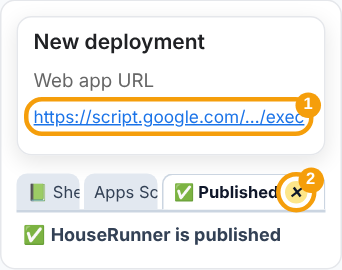
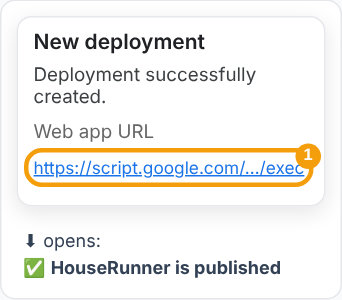
2026.11.292: instant hand-back, close-the-Sheet message, Privacy notice step
Claude-Session: https://claude.ai/code/session_01R2kV4GW3UVFR51NzUKtdLQ

Changed region(s): [[0.0292, 0.0889, 0.9649, 0.9481]]

diff --git a/setup/guide/setup.js b/setup/guide/setup.js
@@ -678,6 +678,8 @@
     var NEW = [
         { id: 'start', title: 'Make your Google Sheet', render: function () {
             if (connected()) return OLD.sheet.render();
+            if (window.hrConnecting) return '<h1>⏳ Connecting to your new Sheet…</h1><p class="lead">Your Sheet says it’s published – this page is connecting to it now. Google can take up to a minute after publishing; it keeps trying by itself.</p>' +
+                '<div class="status">⏳ Connecting…</div>';
             if (window.hrCopiedNow) return '<h1>⏳ Over to your new Sheet</h1>' +       // straight after Make my copy: one clear thing to do
                 '<p class="lead">Your copy opened in a new tab. <b>Follow the 9 steps on its Start HERE tab</b> – they look like this (click to enlarge):</p>' +
                 '<div class="card big" id="floatCard" style="margin:0 0 16px"><h3>📌 Keep the steps in view</h3><p>' + (window.HRFloat && HRFloat.floats ? 'A small window with the steps, one at a time, that <b>stays on top</b> while you work in the Sheet and Apps Script tabs.' : 'A small window with the steps, one at a time, to keep beside the Sheet while you work.') + '</p>' +
@@ -716,11 +718,12 @@
         }, ready: function () { return connected(); },
            blocked: 'Not connected yet – finish the steps in your Sheet (🏠 HouseRunner → ▶ HouseRunner – SETUP). This page carries on by itself.' },
         OLD.publish,
-        { id: 'welcome', title: 'Welcome', render: function () {
+        { id: 'welcome', title: 'Privacy notice', render: function () {
             if (connected() && !S.mode) return OLD.welcome.render();      // run again on a family that's set up: change it, or clear and start again?
             return (S.mode === 'fresh' && S.backup ? '<div class="note ok">🧹 Cleared, ready to set up again. Your backup is <a href="' + esc(S.backup.url) + '" target="_blank" rel="noopener">' + esc(S.backup.name) + '</a> in your Google Drive.</div>' : '') +
-                '<h1>Welcome</h1><p class="lead">' + (connected() ? 'Your Google Sheet is connected. ' : '') + 'A few short steps to go: this one, your licence key, your family, your calendar, and connecting your screen and phones.</p>' +
-                bare(OLD.privacy.render()).replace(/^\s*<p class="lead">[\s\S]*?<\/p>/, '<p>First, what HouseRunner keeps about your family, and where. In short – everything stays in your own Google account.</p>');
+                (window.hrArrived && connected() ? '<div class="note ok arrived big-ok"><h2>✅ Your Google Sheet is made and connected</h2><p>That part’s done – you can close any Sheet or Apps Script tabs still open. Now the rest of the setup, here: the privacy notice, your licence key, your family, your calendar, and connecting your screen and phones.</p></div>' : '') +
+                '<h1>Privacy notice</h1><p class="lead">' + (connected() && !window.hrArrived ? 'Your Google Sheet is connected. ' : '') + 'What HouseRunner keeps about your family, and where. In short – everything stays in your own Google account.</p>' +
+                bare(OLD.privacy.render()).replace(/^\s*<p class="lead">[\s\S]*?<\/p>/, '');
         }, wire: function () { OLD.welcome.wire(); OLD.privacy.wire(); },
            ready: function () { return (!connected() || !!S.mode) && S.privacy === P.version; },
            blocked: 'Tick the box to accept the privacy notice first' },
@@ -968,23 +971,50 @@
     // Connected in another tab (the Sheet's "Open HouseRunner" opens a new one): this tab catches up too
     // The setup tabs talk on one channel: "anyone" (a tab the Sheet just opened asks whether the setup tab is still open) → "here"
     var HRB = { postMessage: function () {} }; try { HRB = new BroadcastChannel('hr-setup'); } catch (e) { /* older browser */ }
-    var hrbListen = function (e) { if (e && e.data === 'anyone') { try { HRB.postMessage('here'); } catch (x) { /* fine */ } } else catchUp(); };
+    var hrbListen = function (e) {
+        if (e && e.data === 'anyone') { try { HRB.postMessage('here'); } catch (x) { /* fine */ } }
+        else if (e && e.data === 'connect') takeOver();
+        else catchUp();
+    };
+    /** The Sheet's "Open HouseRunner" opened a new tab, which handed over to this one: connect here, and carry on here. */
+    var takeOver = function () {
+        if (window.hrConnecting) return;
+        var mine = S.step; S = load(); S.step = mine;
+        ADM = null; LICP = null; window.hrCopiedNow = false; window.hrConnecting = true; render();
+        try { window.focus(); } catch (e) { /* the browser decides */ }
+        var tries = 0;
+        (function one() {
+            connect(true).then(function (ok) {
+                if (ok) {
+                    if (!S.mode) S.mode = 'new';
+                    var ids = STEPS.map(function (x) { return x.id; });
+                    S.step = SOLO ? S.step : ids.indexOf(S.privacy === P.version ? (S.licOk || S.licensed ? 'family' : 'licence') : 'welcome'); save();
+                    arrived();
+                    if (!ADM) loadAdm(); licenceNow();
+                    var t0 = document.title, n = 0, fl = setInterval(function () { document.title = ++n % 2 ? '✅ Carry on here – HouseRunner' : t0; if (n > 11 || !document.hidden) { clearInterval(fl); document.title = t0; } }, 900);
+                } else if (++tries <= 24) setTimeout(one, 5000);
+                else { window.hrConnecting = false; render(); toast('Your Sheet isn’t answering yet – in the Sheet choose 🏠 HouseRunner → ▶ SETUP again, then Open HouseRunner', true); }
+            });
+        })();
+    };
     var arrived = function () {
         if (window.HRFloat) HRFloat.close();      // the steps window has done its job
         toast('Connected to your HouseRunner Google Sheet \u2705');
+        window.hrArrived = true; window.hrConnecting = false; render();
         var pg = $('page'); if (pg && !pg.querySelector('.arrived')) pg.insertAdjacentHTML('afterbegin', '<div class="note ok arrived">✅ <b>Your Google Sheet is published and connected – that part’s done.</b> You can close the Sheet’s tab. ' +
             'Carry on with this step, then press <b>Next →</b> at the bottom right.</div>');
         $('next').classList.add('pulse'); setTimeout(function () { $('next').classList.remove('pulse'); }, 12000);
     };
     var handedOver = function () {
         window.hrHanded = true;
-        $('page').innerHTML = '<div class="card big moved"><h1>✅ Connected – back to your setup tab</h1><p class="lead">Your Google Sheet is published and connected. Setup carries on in the <b>HouseRunner setup tab</b> you started in – this tab can close.</p>' +
+        $('page').innerHTML = '<div class="card big moved"><h1>↩ Back to your setup tab…</h1><p class="lead">Setup carries on in the <b>HouseRunner setup tab</b> you started in – this tab closes by itself. If you land on your Sheet, close its tab too.</p>' +
             '<button class="btn ghost" id="suHere">Carry on in this tab instead</button></div>';
         $('next').style.visibility = 'hidden'; $('back').style.visibility = 'hidden';
         $('suHere').onclick = function () { window.hrHanded = false; $('next').style.visibility = ''; $('back').style.visibility = ''; HRB.onmessage = hrbListen; render(); arrived(); };
-        setTimeout(function () { try { window.close(); } catch (e) { /* not allowed: the message says what to do */ } }, 1500);
+        setTimeout(function () { try { window.close(); } catch (e) { /* not allowed: the message says what to do */ } }, 900);
     };
     var catchUp = function () {
+        if (window.hrHanded) return;      // this tab handed over to the one the user started in
         var was = connected(), mine = S.step, draftU = S.urlDraft; S = load(); S.step = mine; if (draftU != null) S.urlDraft = draftU;   // this tab stays on the page it shows
         if (!was && connected()) {
             // The Sheet's "Open HouseRunner" just connected (in a tab that closes itself): this tab – the one the user started in – carries on
@@ -1063,6 +1093,18 @@
             var changed = p.api !== S.url || p.code !== S.code;
             S.url = p.api; S.code = p.code; if (changed) S.connected = false; save();
         }
+        if (p.from === 'sheet' && p.api && p.code && !SOLO) {
+            $('page').innerHTML = '<div class="card big"><h1>⏳ One moment…</h1><p class="lead">Finding your HouseRunner setup tab.</p></div>';
+            var heard = false;
+            try {
+                HRB.onmessage = function (e) { if (e.data === 'here' && !heard) { heard = true; HRB.postMessage('connect'); handedOver(); } };
+                HRB.postMessage('anyone');
+            } catch (e) { /* older browser: carry on here */ }
+            setTimeout(function () { if (!heard) { HRB.onmessage = hrbListen; boot2(); } }, 700);
+            return;
+        }
+        boot2();
+        function boot2() {
         render();
         var after = function () {
             var ids = STEPS.map(function (x) { return x.id; });
@@ -1073,15 +1115,7 @@
                 S.step = S.privacy === P.version ? ids.indexOf(S.licOk || S.licensed ? 'family' : 'licence') : ids.indexOf(SOLO ? 'privacy' : 'welcome');
             }
             render();
-            if (p.from === 'sheet' && connected()) {
-                // Is the setup tab the user started in still open? Then hand over to it and close this one.
-                var asked = false;
-                try {
-                    HRB.onmessage = function (e) { if (e.data === 'here' && !asked) { asked = true; handedOver(); } };
-                    HRB.postMessage('anyone');
-                } catch (e) { /* older browser */ }
-                setTimeout(function () { if (!asked) { HRB.onmessage = hrbListen; arrived(); } }, 900);
-            }
+            if (p.from === 'sheet' && connected()) arrived();      // no setup tab to go back to: carry on in this one
         };
         // From the Sheet's "Published ✅": a dashboard published a moment ago can take a minute to answer, so keep trying
         var patient = function () {
@@ -1101,5 +1135,6 @@
         // Read the Sheet (family, calendar) and the licence in the background, so the steps open straight away
         var ahead = function () { if (connected()) { if (!ADM) loadAdm(); licenceNow(); } };
         pending.then(refreshVersions).then(after, after).then(ahead, ahead);
+        }
     })();
 })();

diff --git a/index.html b/index.html
@@ -24,11 +24,11 @@
         window.FD_DESK = true; window.FD_PHONE = !!phone;
     })();
     </script>
-    <link rel="stylesheet" href="shared/base.css?v=202611291">
-    <link rel="stylesheet" href="admin/admin.css?v=202611291">
-    <link rel="stylesheet" href="setup/desk.css?v=202611291">
-    <link rel="stylesheet" href="setup/editor.css?v=202611291">
-    <link rel="stylesheet" href="admin/phone.css?v=202611291">
+    <link rel="stylesheet" href="shared/base.css?v=202611292">
+    <link rel="stylesheet" href="admin/admin.css?v=202611292">
+    <link rel="stylesheet" href="setup/desk.css?v=202611292">
+    <link rel="stylesheet" href="setup/editor.css?v=202611292">
+    <link rel="stylesheet" href="admin/phone.css?v=202611292">
     <style>
 #landing { min-height: 100vh; }
 #landing .ld-wrap { max-width: 1100px; margin: 0 auto; padding: 30px 18px 50px; }
@@ -206,20 +206,20 @@
     </div></div>
     <!-- Connected: houserunner.app (computer) or Family Admin (phone) – the same app. -->
     <div id="app"></div>
-    <script src="shared/storecheck.js?v=202611291"></script>
-    <script src="shared/fd.js?v=202611291"></script>
-    <script src="dashboard/scripts/platform.js?v=202611291"></script>
-    <script src="shared/pair.js?v=202611291"></script>
-    <script src="shared/qrcode.js?v=202611291"></script>
-    <script src="shared/privacy.js?v=202611291"></script>
-    <script src="shared/countries.js?v=202611291"></script>
-    <script src="setup/config.js?v=202611291"></script>
-    <script src="help/topics.js?v=202611291"></script>
-    <script src="setup/editor.js?v=202611291"></script>
-    <script src="setup/calsetup.js?v=202611291"></script>
-    <script src="shared/icons.js?v=202611291"></script>
+    <script src="shared/storecheck.js?v=202611292"></script>
+    <script src="shared/fd.js?v=202611292"></script>
+    <script src="dashboard/scripts/platform.js?v=202611292"></script>
+    <script src="shared/pair.js?v=202611292"></script>
+    <script src="shared/qrcode.js?v=202611292"></script>
+    <script src="shared/privacy.js?v=202611292"></script>
+    <script src="shared/countries.js?v=202611292"></script>
+    <script src="setup/config.js?v=202611292"></script>
+    <script src="help/topics.js?v=202611292"></script>
+    <script src="setup/editor.js?v=202611292"></script>
+    <script src="setup/calsetup.js?v=202611292"></script>
+    <script src="shared/icons.js?v=202611292"></script>
     <!-- A phone gets Family Admin, written for the phone; a computer houserunner.app. -->
-    <script>document.write('<script src="admin/' + (window.FD_PHONE ? 'phone' : 'app') + '.js?v=202611291"><\/script>');</script>
+    <script>document.write('<script src="admin/' + (window.FD_PHONE ? 'phone' : 'app') + '.js?v=202611292"><\/script>');</script>
 <script>
  (function () {
    'use strict';

diff --git a/setup/guide/float.js b/setup/guide/float.js
@@ -11,9 +11,9 @@
         ['Authorize access → choose your Google account', 'Choose the account you want the family dashboard in.'],
         ['Advanced → Go to HouseRunner (unsafe)', 'Google warns because the copy is yours – you’re its “developer”. That’s normal: click <b>Advanced</b>, then <b>Go to HouseRunner (unsafe)</b>.'],
         ['Tick Select all → Continue', 'Every permission is needed – tick <b>Select all</b> at the top.'],
-        ['Click the Web app URL – then close the tab it opens', 'A new tab says <b>HouseRunner is published</b>. Close that tab (its ✕).'],
-        ['Back in Apps Script: Done – then close the Apps Script tab', 'That leaves you on your <b>Sheet</b>.'],
-        ['In your Sheet: 🏠 HouseRunner → ▶ SETUP', 'Wait for <b>Published ✅</b>, then click <b>Open HouseRunner</b>. It brings you back to the setup page and this guide closes by itself.<br><span class="mute">No 🏠 HouseRunner menu? Reload the Sheet.</span>']
+        ['Click the Web app URL – a new tab says “published”', 'It’s under <b>Web app</b> in the <b>Deployment successfully created</b> box. A new tab opens saying <b>HouseRunner is published</b>.'],
+        ['Close the two extra tabs: “published” and Apps Script', 'Click the ✕ on each. No need to click <b>Done</b> first – it’s already published. That leaves you on your <b>Sheet</b>.'],
+        ['In your Sheet: 🏠 HouseRunner → ▶ SETUP', 'Wait for <b>Published ✅</b>, then click <b>Open HouseRunner</b>. Then close the Sheet’s tab too – setup carries on in your HouseRunner setup tab, and this guide closes by itself.<br><span class="mute">No 🏠 HouseRunner menu? Reload the Sheet.</span>']
     ];
     // The setup video, once there is one: its address and each step's part of it, in seconds ([from, to]).
     var VIDEO = null;    // e.g. { src: '../../shared/brand/setup.mp4', clips: [[0, 12], [12, 20], …] }

diff --git a/setup/guide/index.html b/setup/guide/index.html
@@ -6,8 +6,8 @@
     <title>HouseRunner Setup</title>
     <meta name="theme-color" content="#0c0e12">
     <link rel="icon" href="../../shared/brand/icon-192.png"><link rel="apple-touch-icon" href="../../shared/brand/apple-touch-icon.png">
-    <link rel="stylesheet" href="../editor.css?v=202611291">
-    <link rel="stylesheet" href="setup.css?v=202611291">
+    <link rel="stylesheet" href="../editor.css?v=202611292">
+    <link rel="stylesheet" href="setup.css?v=202611292">
 </head>
 <body>
     <header class="cfg-top"><a class="cfg-title hr-title" href="../../"><img src="../../shared/brand/mark.svg" alt="" class="hr-mini"><span>House<span class="hr-acc">Runner</span></span></a><a class="cfg-dash" href="../../dashboard/" target="_blank" rel="noopener">▶ Dashboard</a><a class="cfg-help" href="../../help/" target="_blank" rel="noopener">❓ Help</a></header>
@@ -29,9 +29,9 @@
     <script src="../../shared/countries.js"></script>
     <script src="../../shared/pair.js"></script>
     <script src="../../shared/qrcode.js"></script>
-    <script src="../calsetup.js?v=202611291"></script>
-    <script src="../../shared/storecheck.js?v=202611291"></script>
-    <script src="float.js?v=202611291"></script>
-    <script src="setup.js?v=202611291"></script>
+    <script src="../calsetup.js?v=202611292"></script>
+    <script src="../../shared/storecheck.js?v=202611292"></script>
+    <script src="float.js?v=202611292"></script>
+    <script src="setup.js?v=202611292"></script>
 </body>
 </html>

diff --git a/sw.js b/sw.js
@@ -1,6 +1,6 @@
 /* Keeps houserunner.app (the Configurator / Family Admin) available offline. Family data always comes live from Google.
  * The screen, the Family Calendar app and the licence pages look after themselves, so they're left alone here. */
-const CACHE = 'root-v145';
+const CACHE = 'root-v146';
 const FILES = ["./", "index.html", "manifest.webmanifest", "admin/app.js", "admin/phone.js", "admin/phone.css", "admin/admin.css", "admin/icons/icon-192.png", "setup/desk.css", "setup/editor.css", "setup/editor.js", "setup/calsetup.js", "setup/config.js",
   "help/topics.js", "shared/fd.js", "shared/head.js", "shared/storecheck.js", "shared/move.js", "shared/base.css", "shared/brand/mark.svg", "shared/privacy.js", "shared/countries.js", "shared/icons.js", "shared/pair.js", "shared/qrcode.js"];
 const OWN = /^\/(screen|dashboard|calendar|licencing|windows|downloads|Scripts)\//;

diff --git a/admin/sw.js b/admin/sw.js
@@ -1,5 +1,5 @@
 /* Keeps the app itself available offline. Calendar and points data always come live from Google. */
-const CACHE = 'admin-v294';
+const CACHE = 'admin-v295';
 const FILES = ["./", "index.html", "app.js", "admin.css", "manifest.webmanifest", "icons/icon-192.png", "../shared/fd.js", "../shared/storecheck.js", "../shared/move.js", "../shared/base.css", "../shared/brand/symbol.svg", "../shared/privacy.js", "../shared/countries.js", "../shared/pair.js", "../shared/qrcode.js"];
 self.addEventListener('install', e => { e.waitUntil(caches.open(CACHE).then(c => c.addAll(FILES)).then(() => self.skipWaiting())); });
 self.addEventListener('activate', e => { e.waitUntil(caches.keys().then(ks => Promise.all(ks.filter(k => k.startsWith('admin-') && k !== CACHE).map(k => caches.delete(k)))).then(() => self.clients.claim())); });

diff --git a/calendar/sw.js b/calendar/sw.js
@@ -1,5 +1,5 @@
 /* Keeps the app itself available offline. Calendar and points data always come live from Google. */
-const CACHE = 'calendar-v282';
+const CACHE = 'calendar-v283';
 const FILES = ["./", "index.html", "app.js", "calendar.css", "manifest.webmanifest", "icons/icon-192.png", "../shared/fd.js", "../shared/storecheck.js", "../shared/move.js", "../shared/base.css", "../shared/brand/symbol.svg", "../shared/pair.js", "../shared/qrcode.js"];
 self.addEventListener('install', e => { e.waitUntil(caches.open(CACHE).then(c => c.addAll(FILES)).then(() => self.skipWaiting())); });
 self.addEventListener('activate', e => { e.waitUntil(caches.keys().then(ks => Promise.all(ks.filter(k => k.startsWith('calendar-') && k !== CACHE).map(k => caches.delete(k)))).then(() => self.clients.claim())); });

diff --git a/shared/fd.js b/shared/fd.js
@@ -191,7 +191,7 @@
         clearConfig: function () { cfg = {}; try { localStorage.removeItem(KEY); } catch (e) { /* ignore */ } },
         parseSetup: parseSetup,
 
-        VERSION: '2026.11.291',     // the phone apps' version (same number as the screen's)
+        VERSION: '2026.11.292',     // the phone apps' version (same number as the screen's)
         get: function (action, params, timeout) {
             var q = 'action=' + encodeURIComponent(action) + '&code=' + encodeURIComponent(cfg.code) + '&t=' + Date.now();
             Object.keys(params || {}).forEach(function (k) { q += '&' + k + '=' + encodeURIComponent(params[k]); });

diff --git a/setup/guide/setup.css b/setup/guide/setup.css
@@ -215,3 +215,6 @@ main > .nav { position: sticky; bottom: 0; z-index: 5; background: var(--bg, #0c
 @keyframes nxpulse { 0%, 100% { box-shadow: 0 0 0 0 rgba(63,169,245,.7); } 50% { box-shadow: 0 0 0 10px rgba(63,169,245,0); } }
 .card.moved h1 { font-size: 26px; }
 .step-pic { display: block; width: 100%; max-width: 440px; margin: 10px 0 4px; border-radius: 10px; border: 1px solid var(--line); }
+.note.big-ok { padding: 18px 22px; border-radius: 14px; margin-bottom: 22px; }
+.note.big-ok h2 { margin: 0 0 6px; font-size: 22px; }
+.note.big-ok p { margin: 0; font-size: 15.5px; }

diff --git a/dashboard/scripts/notices.js b/dashboard/scripts/notices.js
@@ -6,7 +6,7 @@
  */
 (function () {
     'use strict';
-    var APP_VERSION = '2026.11.291';
+    var APP_VERSION = '2026.11.292';
     var SNOOZE_KEY = 'familyDashboard.updateSnooze', SCRIPT_KEY = 'familyDashboard.scriptNag';
     var latest = null, lastLayout = null, privacyOpen = false, lastTouch = Date.now(), updating = false;
     var IDLE_MS = 3 * 60000;
